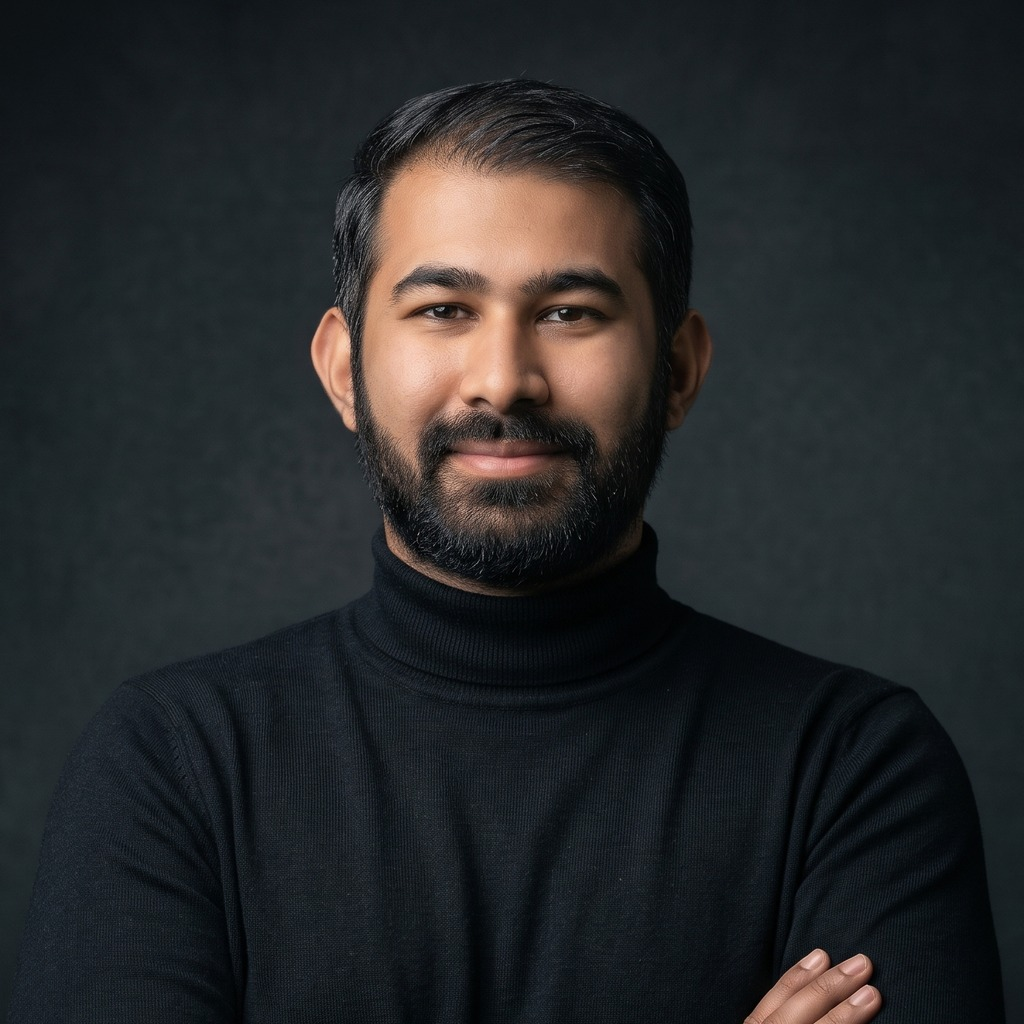
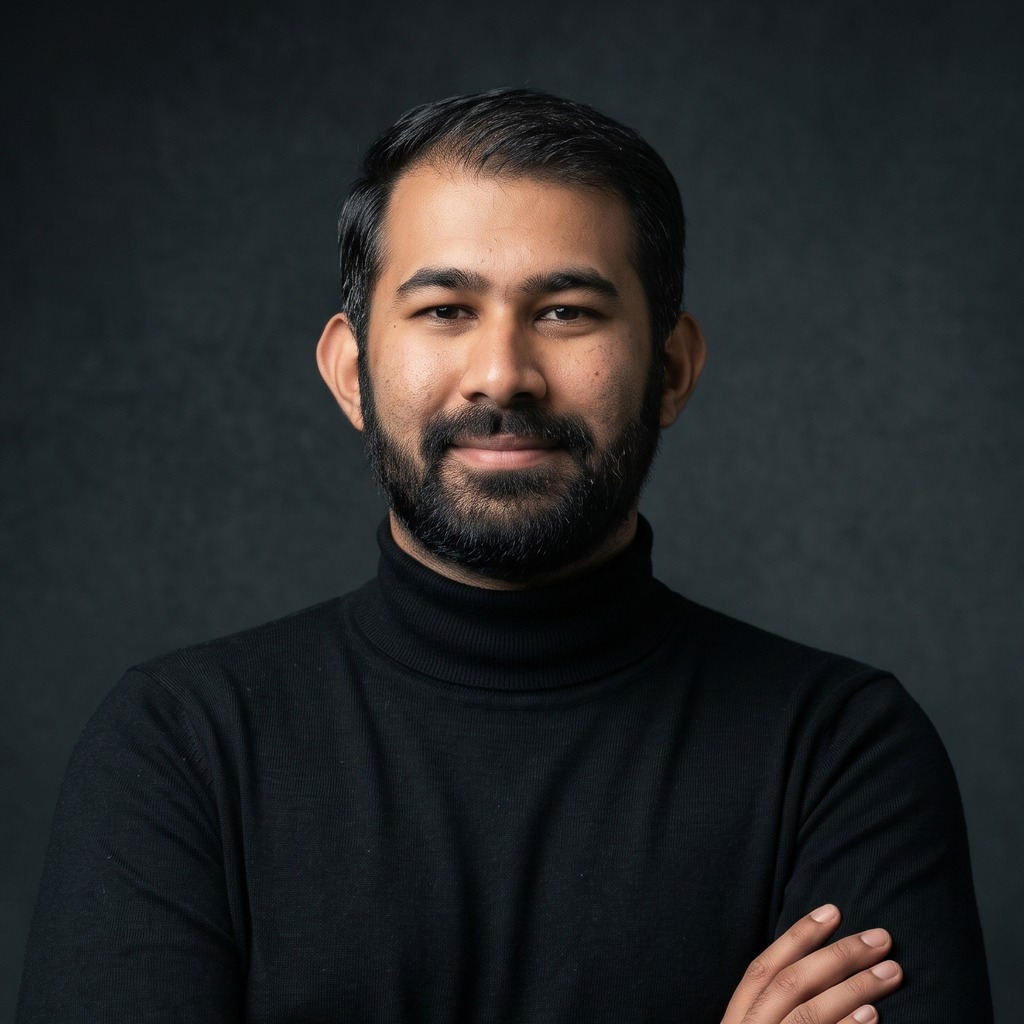
feat: replace profile photo with natural-skin portrait

diff --git a/generate_cv.py b/generate_cv.py
@@ -38,7 +38,7 @@ FOOTER_COLOR = HexColor("#999999")
 SOURCE_URL = "github.com/subhan-ahmd/portfolio-assets"
 PHOTO_FILE = "profile.png"  # transparent cut-out; only flavours with "showPhoto": true use it
 PHOTO_DIAMETER = 64
-PHOTO_CROP = (0.16, 0.0, 0.84, 0.5636)  # head-and-shoulders square, as fractions of the cut-out
+PHOTO_CROP = (0.1458, 0.0, 0.8542, 0.5874)  # head-and-shoulders square, as fractions of the cut-out
 PHOTO_PIXELS = 384
 PHOTO_DISC = HexColor("#EEEEEE")
 PHOTO_RING = HexColor("#999999")
